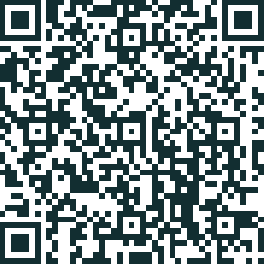
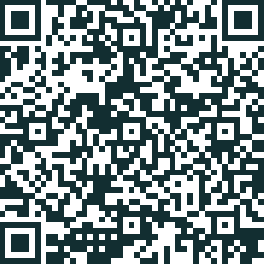
Limpieza de carpeta tokens y habilitando qr en consola

diff --git a/app.js b/app.js
@@ -7,7 +7,7 @@ venom
   .create(
     'sessionName',
     (base64Qr, asciiQR, attempts, urlCode) => {
-      // console.log(asciiQR); // Optional to log the QR in the terminal
+      console.log(asciiQR); // Optional to log the QR in the terminal
       var matches = base64Qr.match(/^data:([A-Za-z-+\/]+);base64,(.+)$/),
         response = {};
 
